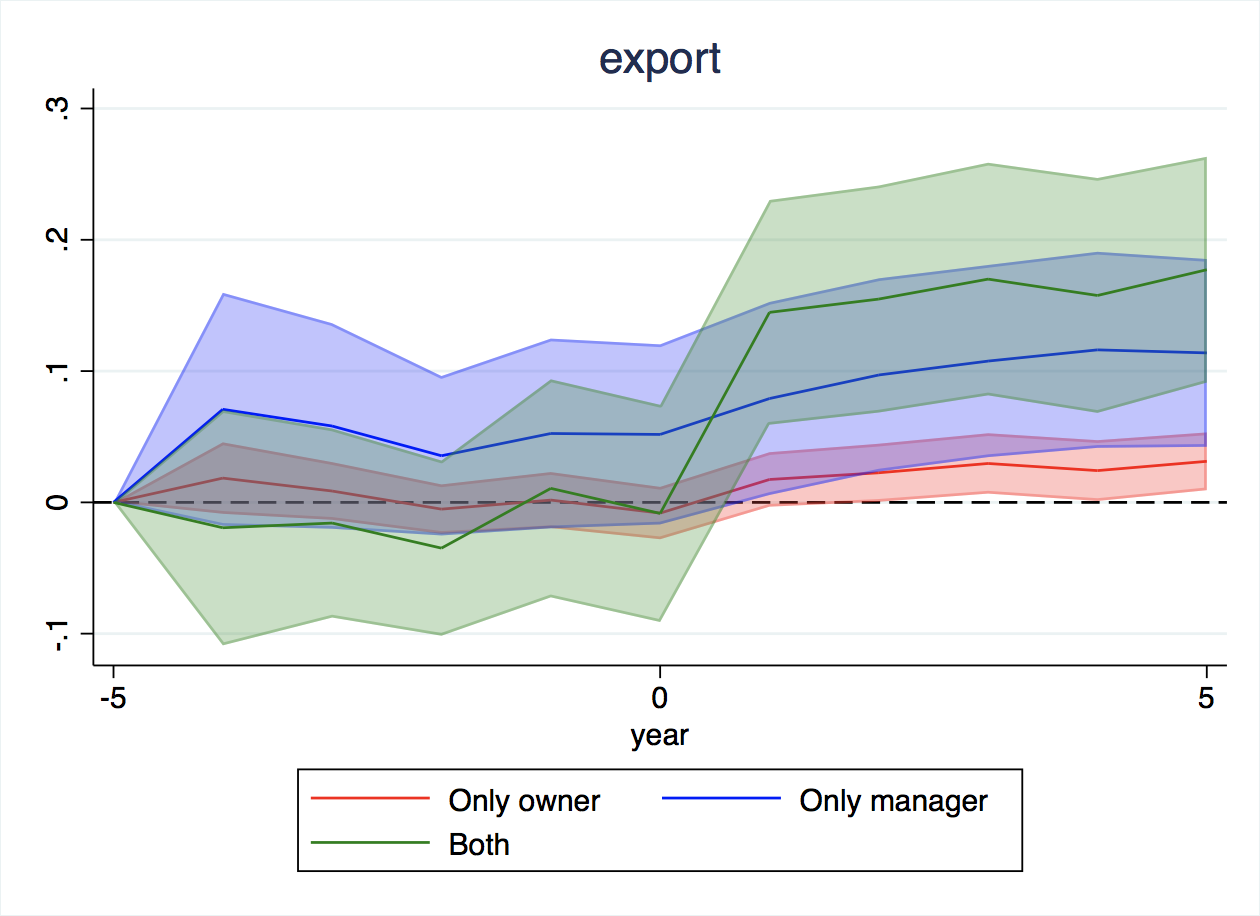
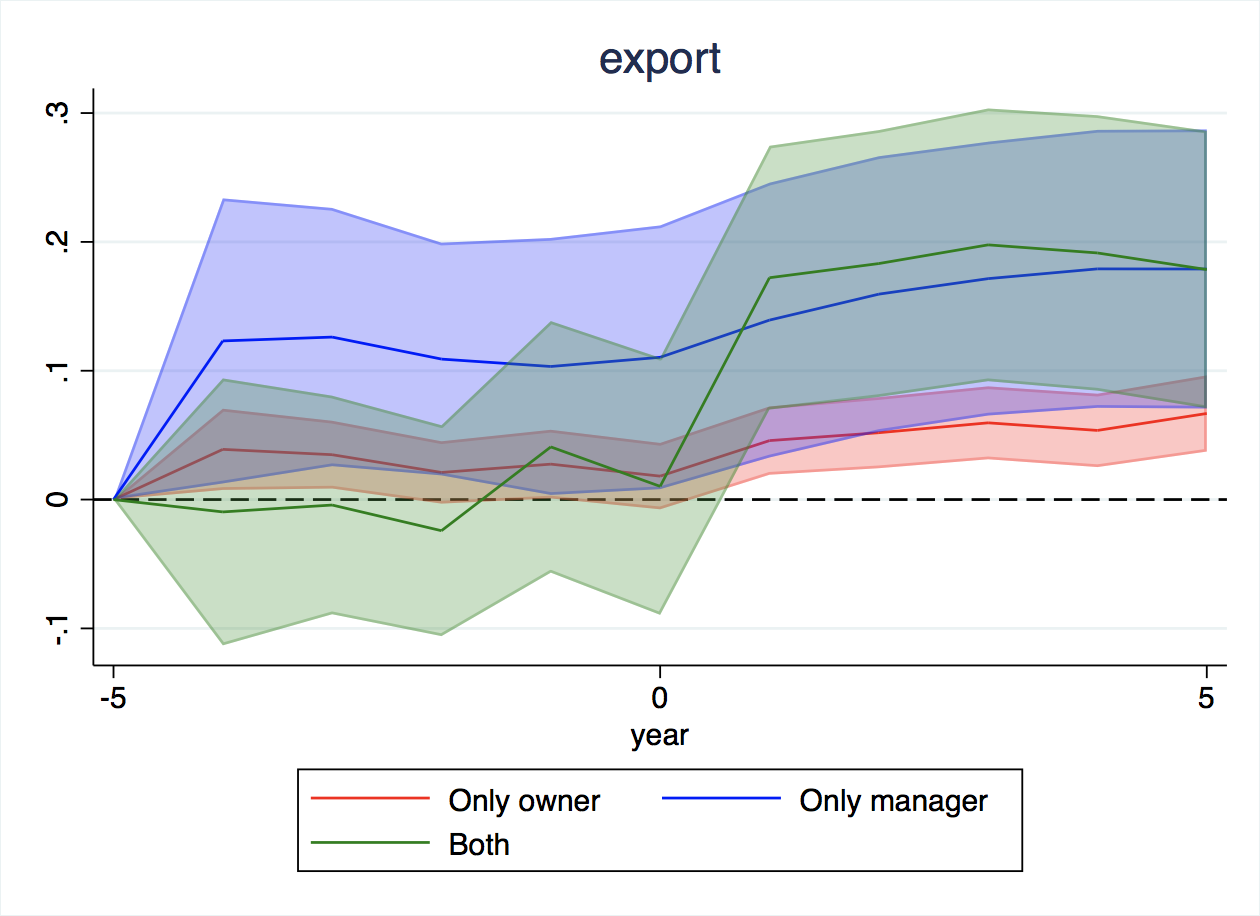
Censorize instead of winsorize event study. Evidence of preselection for exports, not for imports.

diff --git a/output/table/event_study.tex b/output/table/event_study.tex
@@ -2,71 +2,71 @@
  & (1) & (2) & (3) \\
 VARIABLES & Dexport & Dimport\_capital & Dimport\_material \\ \hline
  &  &  &  \\
-only\_owner\_96 & 0.019 & -0.013 & 0.010 \\
- & (0.014) & (0.008) & (0.012) \\
-only\_owner\_97 & 0.009 & -0.018* & 0.000 \\
- & (0.011) & (0.010) & (0.013) \\
-only\_owner\_98 & -0.005 & -0.012 & 0.003 \\
- & (0.010) & (0.009) & (0.011) \\
-only\_owner\_99 & 0.002 & -0.006 & -0.013 \\
- & (0.011) & (0.009) & (0.011) \\
-only\_owner\_100 & -0.008 & -0.017* & -0.022** \\
- & (0.010) & (0.009) & (0.011) \\
-only\_owner\_101 & 0.017* & 0.010 & 0.014 \\
- & (0.011) & (0.010) & (0.011) \\
-only\_owner\_102 & 0.023** & 0.012 & 0.014 \\
- & (0.011) & (0.010) & (0.012) \\
-only\_owner\_103 & 0.030** & 0.012 & 0.007 \\
- & (0.012) & (0.010) & (0.013) \\
-only\_owner\_104 & 0.024** & 0.024** & 0.023* \\
- & (0.012) & (0.011) & (0.014) \\
-only\_owner\_105 & 0.031*** & 0.018* & 0.017 \\
- & (0.011) & (0.010) & (0.013) \\
-only\_manager\_96 & 0.071 & -0.031** & 0.056 \\
- & (0.045) & (0.014) & (0.049) \\
-only\_manager\_97 & 0.058 & -0.070** & 0.008 \\
- & (0.040) & (0.027) & (0.032) \\
-only\_manager\_98 & 0.036 & -0.016 & 0.017 \\
- & (0.031) & (0.025) & (0.035) \\
-only\_manager\_99 & 0.052 & -0.035 & 0.033 \\
- & (0.037) & (0.033) & (0.044) \\
-only\_manager\_100 & 0.052 & 0.009 & 0.048 \\
- & (0.035) & (0.031) & (0.043) \\
-only\_manager\_101 & 0.079** & 0.052* & 0.104** \\
- & (0.038) & (0.031) & (0.044) \\
-only\_manager\_102 & 0.097*** & 0.086*** & 0.129*** \\
- & (0.038) & (0.032) & (0.044) \\
-only\_manager\_103 & 0.108*** & 0.077** & 0.114*** \\
- & (0.037) & (0.032) & (0.044) \\
-only\_manager\_104 & 0.116*** & 0.087*** & 0.153*** \\
- & (0.038) & (0.033) & (0.046) \\
-only\_manager\_105 & 0.114*** & 0.087*** & 0.135*** \\
- & (0.036) & (0.031) & (0.043) \\
-both\_96 & -0.019 & -0.039 & -0.035 \\
- & (0.046) & (0.035) & (0.045) \\
-both\_97 & -0.016 & -0.031 & -0.052 \\
- & (0.037) & (0.030) & (0.038) \\
-both\_98 & -0.035 & -0.062* & -0.036 \\
- & (0.034) & (0.032) & (0.041) \\
-both\_99 & 0.011 & -0.029 & 0.033 \\
- & (0.042) & (0.041) & (0.054) \\
-both\_100 & -0.008 & 0.047 & 0.040 \\
- & (0.042) & (0.045) & (0.056) \\
-both\_101 & 0.145*** & 0.187*** & 0.223*** \\
- & (0.044) & (0.045) & (0.058) \\
-both\_102 & 0.155*** & 0.171*** & 0.198*** \\
- & (0.044) & (0.046) & (0.059) \\
-both\_103 & 0.170*** & 0.170*** & 0.230*** \\
- & (0.045) & (0.046) & (0.060) \\
-both\_104 & 0.158*** & 0.216*** & 0.232*** \\
- & (0.046) & (0.048) & (0.062) \\
-both\_105 & 0.177*** & 0.168*** & 0.192*** \\
- & (0.044) & (0.045) & (0.058) \\
+only\_owner\_96 & 0.039** & 0.002 & 0.035** \\
+ & (0.016) & (0.009) & (0.014) \\
+only\_owner\_97 & 0.035*** & -0.002 & 0.029** \\
+ & (0.013) & (0.011) & (0.014) \\
+only\_owner\_98 & 0.021* & 0.006 & 0.034** \\
+ & (0.012) & (0.011) & (0.013) \\
+only\_owner\_99 & 0.028** & 0.010 & 0.016 \\
+ & (0.014) & (0.010) & (0.013) \\
+only\_owner\_100 & 0.018 & -0.001 & 0.008 \\
+ & (0.013) & (0.011) & (0.013) \\
+only\_owner\_101 & 0.046*** & 0.028** & 0.045*** \\
+ & (0.014) & (0.011) & (0.014) \\
+only\_owner\_102 & 0.052*** & 0.031*** & 0.046*** \\
+ & (0.014) & (0.012) & (0.015) \\
+only\_owner\_103 & 0.060*** & 0.031*** & 0.041*** \\
+ & (0.014) & (0.012) & (0.015) \\
+only\_owner\_104 & 0.054*** & 0.043*** & 0.056*** \\
+ & (0.015) & (0.013) & (0.016) \\
+only\_owner\_105 & 0.067*** & 0.049*** & 0.050*** \\
+ & (0.015) & (0.013) & (0.016) \\
+only\_manager\_96 & 0.123** & -0.024 & 0.079 \\
+ & (0.056) & (0.015) & (0.053) \\
+only\_manager\_97 & 0.126** & -0.057** & 0.054 \\
+ & (0.051) & (0.024) & (0.041) \\
+only\_manager\_98 & 0.109** & -0.018 & 0.039 \\
+ & (0.046) & (0.026) & (0.042) \\
+only\_manager\_99 & 0.103** & -0.032 & 0.065 \\
+ & (0.051) & (0.035) & (0.050) \\
+only\_manager\_100 & 0.110** & 0.016 & 0.080 \\
+ & (0.052) & (0.035) & (0.049) \\
+only\_manager\_101 & 0.139** & 0.062* & 0.138*** \\
+ & (0.054) & (0.035) & (0.050) \\
+only\_manager\_102 & 0.159*** & 0.097*** & 0.169*** \\
+ & (0.055) & (0.036) & (0.050) \\
+only\_manager\_103 & 0.172*** & 0.090** & 0.157*** \\
+ & (0.054) & (0.036) & (0.050) \\
+only\_manager\_104 & 0.179*** & 0.099*** & 0.189*** \\
+ & (0.055) & (0.036) & (0.052) \\
+only\_manager\_105 & 0.179*** & 0.087** & 0.186*** \\
+ & (0.055) & (0.037) & (0.051) \\
+both\_96 & -0.010 & -0.020 & 0.005 \\
+ & (0.053) & (0.035) & (0.053) \\
+both\_97 & -0.004 & -0.010 & -0.008 \\
+ & (0.043) & (0.032) & (0.047) \\
+both\_98 & -0.024 & -0.037 & 0.008 \\
+ & (0.042) & (0.035) & (0.051) \\
+both\_99 & 0.041 & -0.003 & 0.082 \\
+ & (0.050) & (0.045) & (0.063) \\
+both\_100 & 0.010 & 0.084 & 0.093 \\
+ & (0.051) & (0.051) & (0.066) \\
+both\_101 & 0.172*** & 0.230*** & 0.288*** \\
+ & (0.052) & (0.052) & (0.068) \\
+both\_102 & 0.183*** & 0.202*** & 0.252*** \\
+ & (0.053) & (0.053) & (0.069) \\
+both\_103 & 0.198*** & 0.201*** & 0.267*** \\
+ & (0.054) & (0.054) & (0.069) \\
+both\_104 & 0.191*** & 0.252*** & 0.292*** \\
+ & (0.055) & (0.055) & (0.072) \\
+both\_105 & 0.179*** & 0.211*** & 0.235*** \\
+ & (0.055) & (0.055) & (0.070) \\
  &  &  &  \\
-Observations & 619,820 & 638,357 & 599,514 \\
-R-squared & 0.383 & 0.363 & 0.377 \\
+Observations & 615,322 & 634,207 & 596,164 \\
+R-squared & 0.386 & 0.366 & 0.379 \\
 Firm-year FE & YES & YES & YES \\
 Country-year FE & YES & YES & YES \\
 Firm-country FE & YES & YES & YES \\
- Mean & 0.0169 & 0.0115 & 0.0195 \\ \hline
+ Mean & 0.0166 & 0.0113 & 0.0194 \\ \hline
 \end{tabular}
